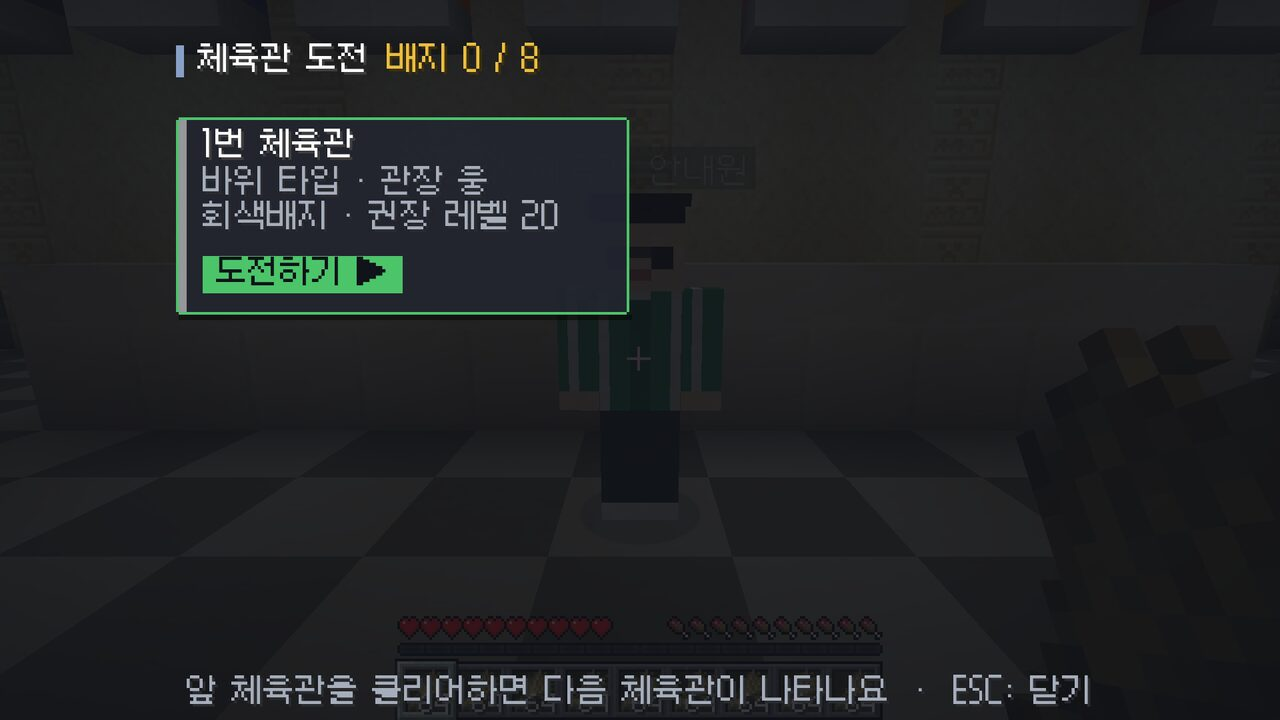
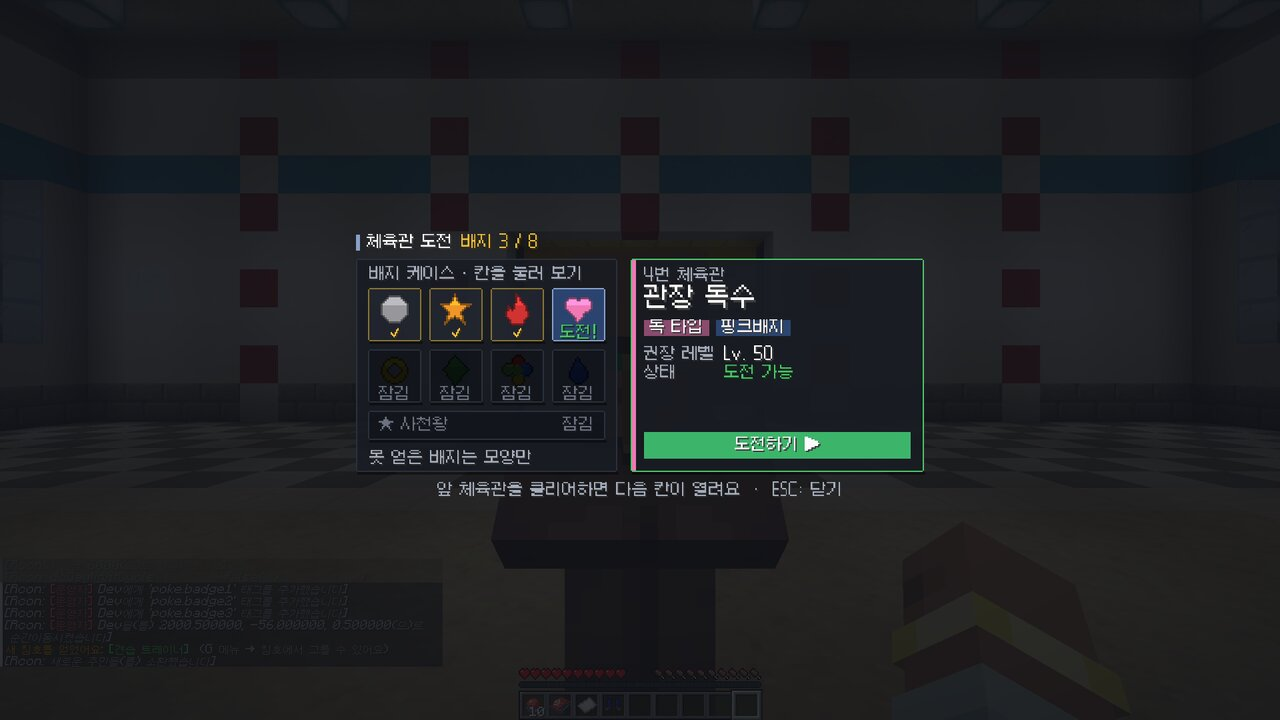
체육관 도전 화면을 배지 케이스형으로 (잠긴 칸도 표시), 체육관 입구 바닥 빈 줄 채움 + 빈칸 검사 추가, 버전 0.3.0
Claude-Session: https://claude.ai/code/session_01KfYadX4RQW6s5szTxe11BK

diff --git a/tests/mod-test.js b/tests/mod-test.js
@@ -17,8 +17,8 @@ const within = (p, ms) => Promise.race([p, sleep(ms).then(() => 'timeout')]).cat
   const ff = async t => { await rc.send(`tick sprint ${t}`); for (let i = 0; i < 100 && /sprint/i.test(await rc.send('tick query')); i++) await sleep(100) }
   // 농장·마을 짓기가 끝날 때까지 (짓는 동안엔 서버가 바빠 응답이 늦음): 그동안 게임 시간을 빨리
   await rc.send('tick sprint 12000')
-  for (let i = 0; i < 240 && !/build: 19.*farm: 3|farm: 3.*build: 19/.test(await cmd('data get storage poke:state')); i++) await sleep(500)
-  assert.match(await cmd('data get storage poke:state'), /build: 19/, '건물 번호가 load와 같아야 함 (기다리다 시간만 버리지 않게 바로 실패)')
+  for (let i = 0; i < 240 && !/build: 20.*farm: 3|farm: 3.*build: 20/.test(await cmd('data get storage poke:state')); i++) await sleep(500)
+  assert.match(await cmd('data get storage poke:state'), /build: 20/, '건물 번호가 load와 같아야 함 (기다리다 시간만 버리지 않게 바로 실패)')
   await rc.send('tick sprint stop')
 
   const A = await join('A'), B = await join('B'); await sleep(450)
@@ -152,16 +152,18 @@ const within = (p, ms) => Promise.race([p, sleep(ms).then(() => 'timeout')]).cat
   assert.equal(await cmd('data get entity A Pos'), posBefore, '7. 튜토리얼 다시 보기 → 오박사에게 이동하지 않음')
 
 
-  // 3·4. 체육관 안내원(태그 poke.gymguide) → 도전 목록: 클리어한 곳과 도전 가능한 곳만, 고르면 경기장으로
+  // 3·4. 체육관 안내원(태그 poke.gymguide) → 배지 케이스: 9칸 모두(잠긴 곳은 locked), 열린 곳만 고를 수 있고 고르면 경기장으로
   const gyms = []
   A._client.on('custom_payload', p => { if (p.channel === 'pokeserver:gym_open') gyms.push(p.data.toString('utf8')) })
   await cmd('execute as A run function poke:tutorial/finish')   // 바로 위에서 튜토리얼을 다시 시작했으므로
   await cmd('execute as A run function poke:warp/fixed {key:"gym"}'); await sleep(500)
   await cmd('execute at A run summon minecraft:villager ~ ~ ~2 {NoAI:1b,Tags:["poke.gymguide"]}'); await sleep(350)
   const guide = () => Object.values(A.entities).find(e => e.name === 'villager' && e.position.z > A.entity.position.z + 1)
-  const listOf = j => JSON.parse(j.slice(j.indexOf('['))).map(g => [g.n, g.status])
+  const listOf = j => JSON.parse(j.slice(j.indexOf('['))).map(g => [g.n, g.status]).filter(([, st]) => st !== 'locked')
+  const countOf = j => JSON.parse(j.slice(j.indexOf('['))).length
   await A.activateEntity(guide()); await sleep(350)
-  assert.deepEqual(listOf(gyms[0]), [[1, 'open']], '배지 0개: 1번 체육관만 보임')
+  assert.deepEqual(listOf(gyms[0]), [[1, 'open']], '배지 0개: 1번 체육관만 열림')
+  assert.equal(countOf(gyms[0]), 9, '배지 케이스: 잠긴 칸(2~8번·사천왕)도 locked로 옴')
   await cmd('tag A add poke.badge1'); await A.activateEntity(guide()); await sleep(350)
   assert.deepEqual(listOf(gyms[1]), [[1, 'cleared'], [2, 'open']], '클리어한 1번(금색) + 도전 가능한 2번만')
   const pick = n => A._client.write('custom_payload', { channel: 'pokeserver:gym_pick', data: Buffer.from([n]) })

diff --git a/tests/datapack-test.js b/tests/datapack-test.js
@@ -25,9 +25,9 @@ const join = name => new Promise((res, rej) => {
 
   // 건물이 지어질 때까지 (load 후 60틱)
   await rc.send('tick sprint 12000')   // 짓는 동안 게임 시간을 빨리
-  await waitFor('data get storage poke:state', /build: 19.*farm: 3|farm: 3.*build: 19/, 240)
+  await waitFor('data get storage poke:state', /build: 20.*farm: 3|farm: 3.*build: 20/, 240)
   await rc.send('tick sprint stop')  // 지형은 여러 틱에 나눠 지음
-  assert.match(await cmd('data get storage poke:state'), /build: 19/, '짓기 끝에 저장한 건물 번호가 load와 같아야 함 (다르면 켤 때마다 다시 지음)')
+  assert.match(await cmd('data get storage poke:state'), /build: 20/, '짓기 끝에 저장한 건물 번호가 load와 같아야 함 (다르면 켤 때마다 다시 지음)')
   await ok('execute in poke:hub if block 0 64 3 minecraft:smooth_quartz', '튜토리얼 방 바닥')
   for (const fl of ['-40 -80 140 30', '960 -32 1040 32', '1960 -36 2040 36', '3000 -18 3380 18', '3500 -46 3540 12'])
     await cmd(`execute in poke:town run forceload add ${fl}`)

diff --git a/mod/src/client/java/com/pokeserver/client/GymScreen.java b/mod/src/client/java/com/pokeserver/client/GymScreen.java
@@ -10,79 +10,135 @@ import net.fabricmc.fabric.api.client.networking.v1.ClientPlayNetworking;
 import net.minecraft.client.gui.GuiGraphics;
 import net.minecraft.client.gui.screens.Screen;
 import net.minecraft.network.chat.Component;
+import net.minecraft.resources.ResourceLocation;
 
-/** 3·4·8. 체육관 안내원 화면: 도전 가능(초록 테두리), 클리어(하늘색 테두리 + CLEARED 도장), 다른 사람이 도전 중(주황). 못 가는 곳은 서버가 안 보냄. */
+/** 3·4·8. 체육관 안내원 화면 (배지 케이스형 시안 A): 왼쪽 배지 케이스 8칸 + 사천왕 칸, 오른쪽 고른 곳의 정보와 도전하기 버튼.
+ *  얻은 배지는 배지 그림, 못 얻은 배지는 모양만. 도전 가능(초록), 클리어(금색 + CLEARED 도장), 다른 사람이 도전 중(주황), 잠김(회색). */
 public class GymScreen extends Screen {
-    static final int CARD_W = 170, CARD_H = 74, GAP = 8;
-    static final int OPEN = 0xFF4CC46A, CLEARED = 0xFF5CD6FF, BUSY = 0xFFF0A040;
+    static final int LW = 196, RW = 220, GX = 10, PH = 160, SLOT = 40, SG = 6;
+    static final int OPEN = 0xFF4CC46A, CLEARED = 0xFF5CD6FF, BUSY = 0xFFF0A040, EARNED = 0xFF8A7430, LOCKED = 0xFF2A303C;
 
-    private final List<JsonObject> gyms = new ArrayList<>();
+    private final List<JsonObject> gyms = new ArrayList<>();   // n 순서 (1~8 체육관, 9 사천왕)
     private final Theme.Anim anim = new Theme.Anim();
-    private int pressed = -1, shaking = -1;
+    private int sel, shaking = -1;
     private long pressedAt, shakeAt, popupAt = -10_000;
     private String popup = "";
 
     public GymScreen(String json) {
         super(Component.literal("체육관 도전"));
         for (var e : JsonParser.parseString(json).getAsJsonArray()) gyms.add(e.getAsJsonObject());
+        gyms.sort((a, b) -> a.get("n").getAsInt() - b.get("n").getAsInt());
+        sel = 0;                                                    // 처음엔 지금 도전할 곳 (없으면 마지막으로 깬 곳)
+        for (int k = 0; k < gyms.size(); k++) if (!"locked".equals(status(k))) sel = k;
+        for (int k = 0; k < gyms.size(); k++) if ("open".equals(status(k))) { sel = k; break; }
     }
 
-    private int cols() { return Math.max(1, Math.min(3, (width - 32 + GAP) / (CARD_W + GAP))); }
-    private int left() { return (width - (cols() * (CARD_W + GAP) - GAP)) / 2; }
-    private int cardX(int k) { return left() + (k % cols()) * (CARD_W + GAP); }
-    private int cardY(int k) { return 44 + (k / cols()) * (CARD_H + GAP); }
+    private int x0() { return (width - LW - GX - RW) / 2; }
+    private int y0() { return Math.max(30, (height - PH) / 2 + 4); }
+    private int slotX(int k) { return k == 8 ? x0() + (LW - 4 * SLOT - 3 * SG) / 2 : x0() + (LW - 4 * SLOT - 3 * SG) / 2 + (k % 4) * (SLOT + SG); }
+    private int slotY(int k) { return y0() + 22 + (k / 4) * (SLOT + SG); }
+    private int slotW(int k) { return k == 8 ? 4 * SLOT + 3 * SG : SLOT; }
+    private int slotH(int k) { return k == 8 ? 22 : SLOT; }
+    private int btnX() { return x0() + LW + GX + 10; }
+    private int btnY() { return y0() + PH - 30; }
     private String status(int k) { return gyms.get(k).get("status").getAsString(); }
     private String busyBy(int k) { return gyms.get(k).get("busy").getAsString(); }
+    private boolean busy(int k) { return "open".equals(status(k)) && !busyBy(k).isEmpty(); }
+    private int stateColor(int k) { return switch (status(k)) { case "cleared" -> EARNED; case "open" -> busy(k) ? BUSY : OPEN; default -> LOCKED; }; }
+    private static boolean in(double mx, double my, int x, int y, int w, int h) { return mx >= x && mx < x + w && my >= y && my < y + h; }
 
     @Override
     public void renderBackground(GuiGraphics g, int mx, int my, float pt) {
         anim.frame();
         g.fill(0, 0, width, height, Theme.PANEL);
+        int x = x0(), y = y0();
         long badges = gyms.stream().filter(o -> o.get("n").getAsInt() <= 8 && "cleared".equals(o.get("status").getAsString())).count();
-        g.fill(left(), 17, left() + 3, 29, Theme.ACCENT);
-        g.drawString(font, Theme.t("체육관 도전"), left() + 8, 19, Theme.TEXT);
-        g.drawString(font, Theme.t("배지 " + badges + " / 8"), left() + 14 + font.width(Theme.t("체육관 도전")), 19, Theme.GOLD);
-        for (int k = 0; k < gyms.size(); k++) {
-            int x = cardX(k), y = cardY(k);
-            boolean hov = !"cleared".equals(status(k)) && mx >= x && mx < x + CARD_W && my >= y && my < y + CARD_H;
-            card(g, gyms.get(k), k, x, y, anim.to(k, hov));
-        }
-        g.drawCenteredString(font, Theme.t("앞 체육관을 클리어하면 다음 체육관이 나타나요  ·  ESC: 닫기"), width / 2, height - 14, Theme.SUBTEXT);
+        g.fill(x, y - 18, x + 3, y - 6, Theme.ACCENT);
+        g.drawString(font, Theme.t("체육관 도전"), x + 8, y - 16, Theme.TEXT);
+        g.drawString(font, Theme.t("배지 " + badges + " / 8"), x + 14 + font.width(Theme.t("체육관 도전")), y - 16, Theme.GOLD);
+        // 왼쪽: 배지 케이스
+        Theme.panel(g, x, y, x + LW, y + PH, 0xE0181B22, 0xFF2A303C);
+        g.drawString(font, Theme.t(Theme.fit(font, "배지 케이스 · 칸을 눌러 보기", LW - 20)), x + 10, y + 8, Theme.SUBTEXT);
+        for (int k = 0; k < gyms.size() && k < 9; k++) slot(g, k, anim.to(k, in(mx, my, slotX(k), slotY(k), slotW(k), slotH(k))));
+        g.drawString(font, Theme.t(Theme.fit(font, "못 얻은 배지는 모양만", LW - 20)), x + 10, y + PH - 14, Theme.SUBTEXT);
+        if (!gyms.isEmpty()) detail(g, sel, anim.to("btn", in(mx, my, btnX(), btnY(), RW - 20, 20)));
+        g.drawCenteredString(font, Theme.t("앞 체육관을 클리어하면 다음 칸이 열려요  ·  ESC: 닫기"), width / 2, Math.min(height - 14, y + PH + 10), Theme.SUBTEXT);
         popup(g);
     }
 
-    private void card(GuiGraphics g, JsonObject o, int k, int x, int y, float h) {
-        boolean cleared = "cleared".equals(status(k)), busy = !cleared && !busyBy(k).isEmpty();
-        int state = cleared ? CLEARED : busy ? BUSY : OPEN;
-        float sc = k == pressed ? Theme.press(pressedAt) : 1f;
-        long since = System.currentTimeMillis() - shakeAt;
-        float shake = k == shaking && since < 400 ? (float) Math.sin(since / 22.0) * 4f * (1 - since / 400f) : 0f;   // 클릭하면 좌우로 살짝 흔들림
-        g.pose().pushPose();
-        g.pose().translate(x + CARD_W / 2f + shake, y + CARD_H / 2f - h, 0);
-        g.pose().scale(sc, sc, 1);
-        g.pose().translate(-CARD_W / 2f, -CARD_H / 2f, 0);
-        Theme.panel(g, 0, 0, CARD_W, CARD_H, cleared ? 0xE0102030 : Theme.mix(Theme.TILE, Theme.TILE_HOVER, h), state);
-        if (cleared) g.renderOutline(1, 1, CARD_W - 2, CARD_H - 2, 0x705CD6FF);   // 하늘색 이중 테두리
-        g.fill(1, 1, 4, CARD_H - 1, 0xFF000000 | o.get("color").getAsInt());   // 배지 색 띠
-        g.drawString(font, Theme.t(o.get("title").getAsString()), 10, 7, Theme.TEXT);
-        g.drawString(font, Theme.t(o.get("type").getAsString() + " · " + o.get("leader").getAsString()), 10, 21, Theme.SUBTEXT);
-        g.drawString(font, Theme.t(o.get("badge").getAsString() + " · 권장 레벨 " + o.get("level").getAsInt()), 10, 34, Theme.SUBTEXT);
-        if (cleared) {
-            g.drawString(font, Theme.t("✔ 클리어"), 10, 55, CLEARED);
-            stamp(g);
-        } else {
-            String chip = busy ? busyBy(k) + "님이 도전 중" : "도전하기 ▶";
-            int cw = font.width(Theme.t(chip)) + 10;
-            g.fill(10, 52, 10 + cw, 66, state);
-            g.drawString(font, Theme.t(chip), 15, 55, 0xFF101319, false);
+    /** 케이스 한 칸: 배지 그림(얻은 것) / 실루엣(못 얻은 것) + 아래 짧은 상태 글자. 고른 칸은 파란 바탕. */
+    private void slot(GuiGraphics g, int k, float h) {
+        int x = slotX(k), y = slotY(k), w = slotW(k), sh = slotH(k);
+        String st = status(k);
+        boolean locked = "locked".equals(st), cleared = "cleared".equals(st);
+        int fill = k == sel ? Theme.SELECT : locked ? 0xC0101319 : Theme.mix(Theme.TILE, Theme.TILE_HOVER, h);
+        Theme.panel(g, x, y, x + w, y + sh, fill, k == sel ? Theme.ACCENT : stateColor(k));
+        String label = cleared ? "✔" : locked ? "잠김" : busy(k) ? "도전 중" : "도전!";
+        int lc = cleared ? Theme.GOLD : locked ? 0xFF6B7383 : stateColor(k);
+        if (k == 8) {                                                   // 사천왕: 넓은 한 줄
+            g.drawString(font, Theme.t("★ 사천왕"), x + 8, y + 7, locked ? 0xFF6B7383 : Theme.GOLD);
+            String r = cleared ? "명예의 전당 ✔" : label;
+            g.drawString(font, Theme.t(r), x + w - 8 - font.width(Theme.t(r)), y + 7, lc);
+            return;
         }
+        if (locked) g.setColor(0.1f, 0.11f, 0.14f, 1f);                 // 못 얻은 배지: 색 없이 모양만
+        g.pose().pushPose();
+        g.pose().translate(x + (w - 24) / 2f, y + 4, 0);
+        g.pose().scale(1.5f, 1.5f, 1);
+        g.blit(ResourceLocation.fromNamespaceAndPath("pokeserver", "textures/item/badge_" + (k + 1) + ".png"), 0, 0, 0, 0, 16, 16, 16, 16);
+        g.pose().popPose();
+        g.setColor(1f, 1f, 1f, 1f);
+        g.drawCenteredString(font, Theme.t(label), x + w / 2, y + sh - 10, lc);
+    }
+
+    /** 오른쪽: 고른 곳의 관장·타입·배지·권장 레벨, 맨 아래 상태별 버튼 (클리어면 도장). */
+    private void detail(GuiGraphics g, int k, float h) {
+        JsonObject o = gyms.get(k);
+        String st = status(k);
+        int x = x0() + LW + GX, y = y0(), iw = RW - 20;
+        Theme.panel(g, x, y, x + RW, y + PH, 0xE8181B22, stateColor(k));
+        g.fill(x + 1, y + 1, x + 4, y + PH - 1, 0xFF000000 | o.get("color").getAsInt());   // 배지 색 띠
+        g.drawString(font, Theme.t(o.get("title").getAsString()), x + 10, y + 9, Theme.SUBTEXT);
+        g.pose().pushPose();
+        g.pose().translate(x + 10, y + 24, 0);
+        g.pose().scale(1.6f, 1.6f, 1);
+        g.drawString(font, Theme.t(Theme.fit(font, o.get("leader").getAsString(), (int) (iw / 1.6f))), 0, 0, Theme.TEXT);
+        g.pose().popPose();
+        int cx = x + 10, cy = y + 46;                                   // 칩: 타입(배지 색) · 배지 이름
+        for (String[] c : new String[][]{{o.get("type").getAsString(), "type"}, {o.get("badge").getAsString(), "badge"}}) {
+            int cw = Math.min(iw, font.width(Theme.t(c[0])) + 8);
+            if (cx + cw > x + 10 + iw) { cx = x + 10; cy += 15; }
+            g.fill(cx, cy, cx + cw, cy + 12, c[1].equals("type") ? Theme.mix(0xFF101319, 0xFF000000 | o.get("color").getAsInt(), 0.55f) : Theme.SELECT);
+            g.drawString(font, Theme.t(Theme.fit(font, c[0], cw - 8)), cx + 4, cy + 2, Theme.TEXT);
+            cx += cw + 5;
+        }
+        int ry = cy + 22;
+        g.drawString(font, Theme.t("권장 레벨"), x + 10, ry, Theme.SUBTEXT);
+        g.drawString(font, Theme.t("Lv. " + o.get("level").getAsInt()), x + 70, ry, Theme.TEXT);
+        g.drawString(font, Theme.t("상태"), x + 10, ry + 14, Theme.SUBTEXT);
+        String now = switch (st) { case "cleared" -> "클리어"; case "open" -> busy(k) ? busyBy(k) + "님이 도전 중" : "도전 가능"; default -> "잠김"; };
+        g.drawString(font, Theme.t(Theme.fit(font, now, iw - 60)), x + 70, ry + 14, stateColor(k) == LOCKED ? 0xFF6B7383 : stateColor(k));
+        if ("cleared".equals(st)) { stamp(g, x + RW - 50, y + PH - 22); return; }
+        long since = System.currentTimeMillis() - shakeAt;
+        float shake = k == shaking && since < 400 ? (float) Math.sin(since / 22.0) * 4f * (1 - since / 400f) : 0f;   // 막혔을 때 좌우로 살짝
+        float sc = Theme.press(pressedAt);
+        int bx = btnX(), by = btnY();
+        g.pose().pushPose();
+        g.pose().translate(bx + iw / 2f + shake, by + 10, 0);
+        g.pose().scale(sc, sc, 1);
+        g.pose().translate(-iw / 2f, -10, 0);
+        boolean locked = "locked".equals(st);
+        int bc = locked ? LOCKED : busy(k) ? BUSY : Theme.mix(0xFF3CB46A, 0xFF4CD07A, h);
+        g.fill(0, 0, iw, 20, bc);
+        String b = locked ? "앞 체육관을 먼저 클리어" : busy(k) ? "다른 사람이 도전 중" : "도전하기 ▶";
+        g.drawCenteredString(font, Theme.t(b), iw / 2, 6, locked ? Theme.SUBTEXT : 0xFFFFFFFF);
         g.pose().popPose();
     }
 
     /** 클리어 도장: 기울어진 하늘색 테두리 상자 + 큰 CLEARED. */
-    private void stamp(GuiGraphics g) {
+    private void stamp(GuiGraphics g, int cx, int cy) {
         g.pose().pushPose();
-        g.pose().translate(CARD_W - 46, 57, 10);   // 오른쪽 아래 (글자를 가리지 않게)
+        g.pose().translate(cx, cy, 10);
         g.pose().mulPose(Axis.ZP.rotationDegrees(-10));
         int w = 74, hgt = 20;
         g.fill(-w / 2 - 2, -hgt / 2 - 2, w / 2 + 2, hgt / 2 + 2, 0x405CD6FF);   // 은은한 빛
@@ -94,7 +150,7 @@ public class GymScreen extends Screen {
         g.pose().popPose();
     }
 
-    /** 다른 사람이 도전 중인 곳을 누르면 화면 가운데 3초 알림. */
+    /** 다른 사람이 도전 중인 곳에 도전하면 화면 가운데 3초 알림. */
     private void popup(GuiGraphics g) {
         long since = System.currentTimeMillis() - popupAt;
         if (since > 3000) return;
@@ -109,18 +165,17 @@ public class GymScreen extends Screen {
 
     @Override
     public boolean mouseClicked(double mx, double my, int button) {
-        for (int k = 0; k < gyms.size(); k++) {
-            int x = cardX(k), y = cardY(k);
-            if (mx < x || mx >= x + CARD_W || my < y || my >= y + CARD_H || "cleared".equals(status(k))) continue;
-            if (!busyBy(k).isEmpty()) {
-                shaking = k;
+        for (int k = 0; k < gyms.size() && k < 9; k++)
+            if (in(mx, my, slotX(k), slotY(k), slotW(k), slotH(k))) { sel = k; return true; }
+        if (!gyms.isEmpty() && "open".equals(status(sel)) && in(mx, my, btnX(), btnY(), RW - 20, 20)) {
+            pressedAt = System.currentTimeMillis();
+            if (busy(sel)) {
+                shaking = sel;
                 shakeAt = popupAt = System.currentTimeMillis();
-                popup = busyBy(k) + "님이 도전 중이에요. 잠시 후 다시 도전해 주세요.";
+                popup = busyBy(sel) + "님이 도전 중이에요. 잠시 후 다시 도전해 주세요.";
                 return true;
             }
-            pressed = k;
-            pressedAt = System.currentTimeMillis();
-            ClientPlayNetworking.send(new Net.GymPick(gyms.get(k).get("n").getAsInt()));
+            ClientPlayNetworking.send(new Net.GymPick(gyms.get(sel).get("n").getAsInt()));
             onClose();
             return true;
         }

diff --git a/tools/build_world.py b/tools/build_world.py
@@ -430,6 +430,7 @@ def lobby():
         zb = z1 - 7 + 2 * k
         L += [fill(x1 + 3, G + 1, zb, x2 - 3, G + 1 + k, zb + 1, 'minecraft:polished_andesite'),
               fill(x1 + 3, G + 1 + k, zb, x2 - 3, G + 1 + k, zb, 'minecraft:polished_andesite_stairs[facing=south]')]
+    L.append(fill(xm - 13, G + 1, z1 - 1, xm + 13, B, z1 - 1, 'minecraft:polished_andesite'))   # 계단 맨 윗단(z1-2)과 건물 바닥(z1) 사이 한 줄 (정면 벽 밑·문 앞)
     L += walls(x1, x2, z1, z2, B + 1, B + 1, 'minecraft:stone_bricks')
     L += walls(x1, x2, z1, z2, B + 2, top - 1, 'minecraft:white_concrete')
     L += walls(x1, x2, z1, z2, top, top, 'minecraft:light_gray_concrete')

diff --git a/tools/check_holes.py b/tools/check_holes.py
@@ -118,6 +118,8 @@ if __name__ == '__main__':
     holes += check('광장 포켓몬센터', P.CENTER_P, 0, 10, [(c1, c1, 1, 4, -1, 1)], pg)
     mzm = (mz1 + mz2) // 2
     holes += check('광장 프렌들리 숍', P.MART_P, 0, 9, [(m2, m2, 1, 4, mzm - 1, mzm + 1)], pg)
+    x1, x2, z1, _ = W.LOBBY                                    # 체육관 문 앞 바닥 (계단과 건물 사이 한 줄)
+    holes += [('체육관 문 앞', '바닥', x, W.LOBBY_Y, z1 - 1) for x in range(x1 + 3, x2 - 2) if empty(get(x, W.LOBBY_Y, z1 - 1))]
     for h in holes[:80]:
         print('빈칸', h)
     print(f'검사한 건물 {len(bs) + 3}채, 빈칸 {len(holes)}개')

diff --git a/mod/src/main/java/com/pokeserver/Gym.java b/mod/src/main/java/com/pokeserver/Gym.java
@@ -45,8 +45,7 @@ final class Gym {
         for (var e : info) {
             JsonObject g = e.getAsJsonObject().deepCopy();
             String st = status(p, g.get("n").getAsInt());
-            if (st == null) continue;
-            g.addProperty("status", st);
+            g.addProperty("status", st == null ? "locked" : st);   // 배지 케이스 화면은 잠긴 칸도 모양으로 보여 줌 (고르기는 pick에서 다시 검사)
             g.addProperty("busy", busyBy(p, g.get("n").getAsInt()));
             out.add(g);
         }

diff --git a/docs/UI정리.md b/docs/UI정리.md
@@ -53,9 +53,12 @@
 
 ## 3. 체육관 도전 (안내원 우클릭)
 ![체육관](ui/07_gym.jpg)
-- 새 디자인 시안 3개(배지 케이스형 · 도전 경로형 · 관장 카드형, **게임에는 아직 미적용**): https://claude.ai/artifact/Q9uXwTGPzfzLR9Ri3iv8Jf
-- 도전 가능: 초록 테두리. 클리어: 하늘색 + CLEARED. 다른 사람 도전 중: 주황.
-- 카드: 관장, 타입, 배지, 권장 레벨.
+- **배지 케이스형** (시안 A 적용, 시안 3개: https://claude.ai/artifact/Q9uXwTGPzfzLR9Ri3iv8Jf).
+- 왼쪽 **배지 케이스**: 1~8번 체육관 8칸 + 아래 넓은 **사천왕** 칸. 얻은 배지는 그림, 못 얻은 배지는 어두운 모양만.
+  - 칸 테두리: 클리어 금색(✔) · 도전 가능 초록(도전!) · 다른 사람 도전 중 주황(도전 중) · 잠김 회색(잠김). 고른 칸은 파란 바탕.
+- 오른쪽 **정보 카드**: 몇 번 체육관, 관장(큰 글씨), 타입·배지 칩, 권장 레벨, 상태.
+  - 맨 아래 버튼: **도전하기 ▶**(초록) / 다른 사람이 도전 중(주황, 누르면 흔들림 + 가운데 알림) / 앞 체육관을 먼저 클리어(회색). 클리어한 곳은 버튼 대신 CLEARED 도장.
+- 처음 열면 지금 도전할 곳이 골라져 있음. 잠긴 곳도 눌러서 정보는 볼 수 있음 (도전은 서버가 다시 검사).
 - 코드: `GymScreen.java`
 
 ### 배틀 (관장 우클릭)

diff --git a/docs/서버안내.md b/docs/서버안내.md
@@ -54,7 +54,7 @@
 - `/광장` 또는 G 메뉴 워프 "야생"으로 언제든 돌아옴.
 
 ## 체육관·사천왕
-- 체육관 건물 **안내원** 우클릭 → 관장 고르기. 한 관장에 한 명씩, 지면 **5분 뒤** 다시 도전.
+- 체육관 건물 **안내원** 우클릭 → **배지 케이스** 화면에서 관장 고르기 (얻은 배지는 그림, 못 얻은 배지는 모양만). 한 관장에 한 명씩, 지면 **5분 뒤** 다시 도전.
 - 관장 순서: 웅(바위) → 마티스(전기) → 강연(불꽃) → 독수(독) → 초련(에스퍼) → 비주기(땅) → 민화(풀) → 이슬(물).
 - 관장도 기믹을 씀: Z기술 3번째부터, 메가진화 5번째부터, 다이맥스 7번째부터.
 - **보상**: 배지 + 상금(레벨 제한×200원) + 경험사탕 5개 + 그 타입 기술머신 + 레벨 제한 +10 (2·4·6·8번째는 기믹 도구도).
